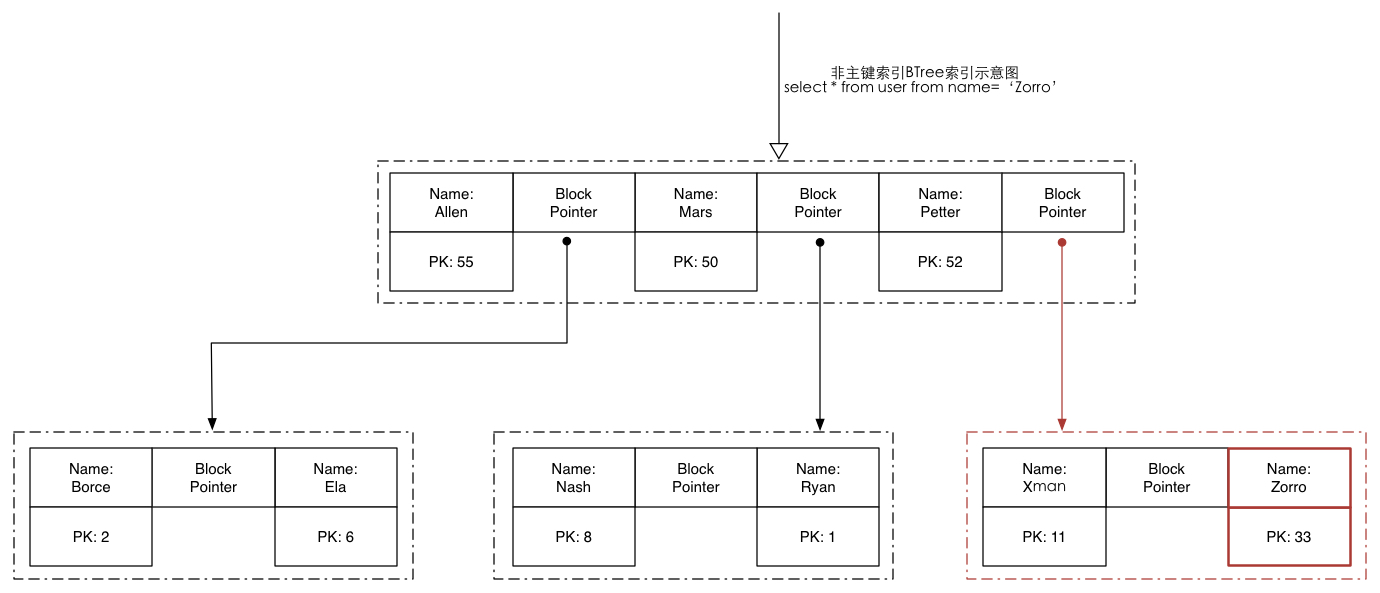
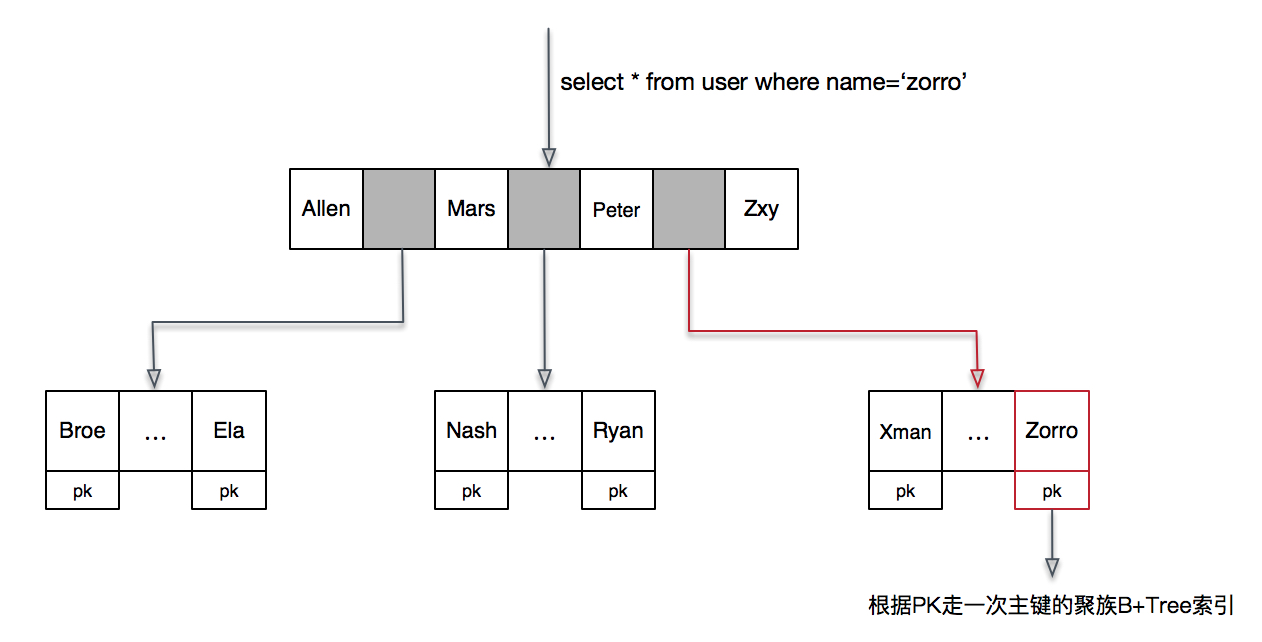
修改BTree索引示意图

diff --git a/_posts/2016-07-01-mysql-index.md b/_posts/2016-07-01-mysql-index.md
@@ -12,30 +12,30 @@ header-img: "img/post-bg-06.jpg"
 选择DB作为Training的第一个系列，而不是其他，是因为这货太重要，而且也是大多数开发人员忽略的最多的地方。为什么一开始就选择索引，是因为查询是我们写的最多的SQL语句，索引也是能最快最方便提升一个查询速度的捷径，这个99%的开发人员都知道这货是干这个事情的，但是仅仅不到10%的开发人员能真正了解和用好它。所以有了这个系列已经这个文章的想法。
 
 # 2. 索引类型
-对索引最简单的理解就是一本书的页码，可以通过书的目录（这个就相当于是数据库中的索引）对应的页码可以找到这页的所有内容。在这节中我们从MySql中索引类型来说一下数据库中的索引工作原理，从索引的数据结构算法上拆分，在MySql的Innodb存储引擎里面有两个类型，BTree和Hash类型索引，从索引顺序和整行数据物理顺序一致或不一致来区分的话，分为聚族(聚集)索引和非聚族(非聚集)索引。下面我们首先来说一下BTree和Hash类型。
+对索引最简单的理解就是一本书的页码，可以通过书的目录（这个就相当于是数据库中的索引）对应的页码可以找到这页的所有内容。在这节中我们从MySql中索引类型来说一下数据库中的索引工作原理，从索引的数据结构算法上拆分，在MySql的Innodb存储引擎里面有两个类型，BTree和Hash类型索引，从索引顺序和整行数据物理顺序一致或不一致来区分的话，分为聚族(聚集)索引和非聚族(非聚集)索引。下面我们首先来说一下B+Tree和Hash类型。
 
 ### 2.1 BTree索引
-BTree索引在我们MySql的Innodb中使用的是最多的索引类型，我们一般说的索引就是BTree类型的索引。BTree的全称是Balance Tree，中文名叫多路搜索树；下面我们就用一张图来说明一下BTree在MySql的工作原理；
+BTree的全称是Balance Tree，中文名叫平衡多路搜索树，分为B-Tree和B+Tree，他们两最主要的区别是，B-Tree每个节点除了索引值还带有数据，而B+Tree只有叶子节点带有数据；B+Tree索引在我们MySql的Innodb中使用的是最多的索引类型。下面我们就用一张图来说明一下B+Tree在MySql的工作原理；
 
 ![图1，非聚族索引](https://ryanwli.github.io/img/2016/20160801-Non-Cluster-Index.jpg)
 
-虚线框代表一个Block块，红色代表本次查找的结果，这里以查询Zorro名为例，首先从硬盘拿第一层这个块，加在到内存中然后依次对名字进行比较，最后比较后没有找到，但是发现Petter后的Block Pointer还可以进行下一级查找，再将下一级的Block从硬盘加在到内存，重复刚才比较，最后就一直重复这个直到找到或者查找完毕都没有找到；
+红色代表本次查找的结果，这里以查询Zorro名为例，首先从硬盘拿第一层这个块，加在到内存中然后依次对名字进行比较，最后比较后没有找到，但是发现Peter后的Block Pointer还可以进行下一级查找，再将下一级的Block从硬盘加在到内存，重复刚才比较，最后就一直重复这个直到找到或者查找完毕都没有找到；
 
-这种多路搜索树的数据结构可以以极其少的内存空间，以及随机IO次数就可以找到我们想要的数据；
+这种平衡多路搜索树的数据结构可以以极其少的内存空间，以及随机IO次数就可以找到我们想要的数据；
 
 ### 2.2 Hash索引
 
 Hash索引我们用的不是特别多，但是在某些场景下我们选择Hash索引可能更适用一点儿，我们还是先用一张图来看一下Hash索引在Mysql里面的工作原理，他工作原理和Java中的HashMap有些类似：
 ![图2，Hash索引](http://upload-images.jianshu.io/upload_images/16597-fae4b1ab4d6610d3.png?imageMogr2/auto-orient/strip%7CimageView2/2/w/1240)
 
-### 2.3 BTree和Hash索引各自特点
-1.从顺序性上来说，BTree是有序的，所以在Order By的时候BTree索引会被使用上，而Hash不会被使用；Hash索引的无序性也让它在执行范围查找的时候也不能被使用，而BTree可以；但是这种顺序性在插入新数据的时候Hash索引是优于BTree索引的，因为插入的时候BTree需要遍历树，最坏的时候遍历整个树来创建对应的索引来保证顺序，而Hash本身的无序性，不需要这样做；
+### 2.3 B+Tree和Hash索引各自特点
+1.从顺序性上来说，B+Tree是有序的，所以在Order By的时候B+Tree索引会被使用上，而Hash不会被使用；Hash索引的无序性也让它在执行范围查找的时候也不能被使用，而B+Tree可以；但是这种顺序性在插入新数据的时候Hash索引是优于B+Tree索引的，因为插入的时候B+Tree需要遍历树，最坏的时候遍历整个树来创建对应的索引来保证顺序，而Hash本身的无序性，不需要这样做；
 
-2.从查询条件符使用限制来说，BTree所以可以用在=，<>, >, <, IN, Between, Like(这里说的Like指Like 'ryan%'，是后匹配，前匹配不支持的)，而Hash索引还是因为它的无序性，它不支持范围查询条件符，它仅仅支持等值查询条件=, IN不支持范围条件>, <, <=, >=, Between, Like之类的；
+2.从查询条件符使用限制来说，B+Tree所以可以用在=，<>, >, <, IN, Between, Like(这里说的Like指Like 'ryan%'，是后匹配，前匹配不支持的)，而Hash索引还是因为它的无序性，它不支持范围查询条件符，它仅仅支持等值查询条件=, IN不支持范围条件>, <, <=, >=, Between, Like之类的；
 
-3.索引效率上来说，假如都用到了索引Hash索引比BTree索引更加快的，为什么？这主要从两点来说，第一是Hash索引的存储很紧凑，它可以把较长的字符串转换成一串较短数字，另外它只存储了hash值和对Row的指针，这也是为什么它无序了，而BTree存储了整个索引列的值，所以从这块讲他的效率也是相当快的；第二是从结构算法来讲，不知道你们看到右边的复杂度没有，一个是O(log2n)，一个O(1+(bucket capacity-1))，BTree随着表的变大他的树的深度也会随着增加，最坏是遍历整个树的深度；而Hash索引如果没有Hash值的碰撞他的复杂度只有O(1)，大部分是O(1)，如果有碰撞，也只是(bucket capacity-1)的增加，所以从算法的复杂度来说，Hash索引执行效率也是优于BTree的；
+3.索引效率上来说，假如都用到了索引Hash索引比B+Tree索引更加快的，为什么？这主要从两点来说，第一是Hash索引的存储很紧凑，它可以把较长的字符串转换成一串较短数字，另外它只存储了hash值和对Row的指针，这也是为什么它无序了，而B+Tree存储了整个索引列的值，所以从这块讲他的效率也是相当快的；第二是从结构算法来讲，不知道你们看到右边的复杂度没有，一个是O(log2n)，一个O(1+(bucket capacity-1))，B+Tree随着表的变大他的树的深度也会随着增加，最坏是遍历整个树的深度；而Hash索引如果没有Hash值的碰撞他的复杂度只有O(1)，大部分是O(1)，如果有碰撞，也只是(bucket capacity-1)的增加，所以从算法的复杂度来说，Hash索引执行效率也是优于B+Tree的；
 
-4.在多列组合上面来说，BTree索引优于Hash索引，如果(A, B, C)3列作为一个组合索引，如果使用A作为搜索条件，BTree索引可以利用上，而Hash索引不会用上，这个是因为Hash索引是将ABC这3列给Hash value了，所以A的部分索引的话是不能使用的；
+4.在多列组合上面来说，B+Tree索引优于Hash索引，如果(A, B, C)3列作为一个组合索引，如果使用A作为搜索条件，B+Tree索引可以利用上，而Hash索引不会用上，这个是因为Hash索引是将ABC这3列给Hash value了，所以A的部分索引的话是不能使用的；
 
 ### 2.4 聚族索引
 聚族索引他的索引顺序和数据的存储顺序是一致的，可以理解成他们是在一起的，就像一本书的页码和该页码中的内容；通常我们一个表的主键就是聚族索引，如果一个表没有定义主键，那么MySql的Innodb会自动生成一个主键列，以及主键索引；另外在innodb中聚族索引是按顺序进行物理存储层面存数据的，所以建立聚族索引最好选择自增长的数字作为聚族索引，这样正好在每次最后一位索引值增加新的索引值，如果换成GUID列作为聚族索引，因为GUID是随即生成，并且无序的所以每次插入一行纪录的时候，创建聚族索引为了保证聚族索引的顺序，会去查找指定的顺序位置，产生额外的开销，另外GUID占用36位unicode字符串，不管是比较字符串，还是存储需要的长度都是开销挺大的，所以聚族索引优先选择整数列作为聚族索引；
@@ -46,7 +46,7 @@ Hash索引我们用的不是特别多，但是在某些场景下我们选择Hash
 
 ### 2.5 非聚族索引
 
-在一个表只有一个聚族索引，除开聚族索引，该表剩下的索引都是非聚族索引；非聚族索引是基于聚族索引的，这话怎么讲呢？看下图，我们在name上建立了一个BTree的非聚族索引，最终匹配到对应Name以后，该非聚族索引还存储了主键，我们使用主键再在聚族索引BTree找到真正对应的该Row的数据，所以非聚集索引还有另外一个称号叫“二级索引”；
+在一个表只有一个聚族索引，除开聚族索引，该表剩下的索引都是非聚族索引；非聚族索引是基于聚族索引的，这话怎么讲呢？看下图，我们在name上建立了一个B+Tree的非聚族索引，最终匹配到对应Name以后，该非聚族索引还存储了主键，我们使用主键再在聚族索引B+Tree找到真正对应的该Row的数据，所以非聚集索引还有另外一个称号叫“二级索引”；
 
 ![图4，非聚族索引](https://ryanwli.github.io/img/2016/20160801-Non-Cluster-Index.jpg)
 
@@ -111,7 +111,7 @@ Hash索引我们用的不是特别多，但是在某些场景下我们选择Hash
 >select id,name from user where phone='152322....';
 
 ### 4.3 覆盖索引
-覆盖索引其实就是指查询条件中用到了索引，并且查询的结果直接用了索引中的列值，而没有回表去查找数据；覆盖索引一般是用BTree实现，而且一般都是一个组合索引，看下面的示例：
+覆盖索引其实就是指查询条件中用到了索引，并且查询的结果直接用了索引中的列值，而没有回表去查找数据；覆盖索引一般是用B+Tree实现，而且一般都是一个组合索引，看下面的示例：
 >如果我们建立一个name列的索引，然后返回的是PK ID，如下：
 >select id from user where name='ryan';
 >那么这个查询的执行效率是相当高的，根据图4的展示，我们可以知道，它不需要回表查询ID，而是直接从name列上的索引返回了，而且大部分MySql索引都存储在数据库服务器内存里面的；
